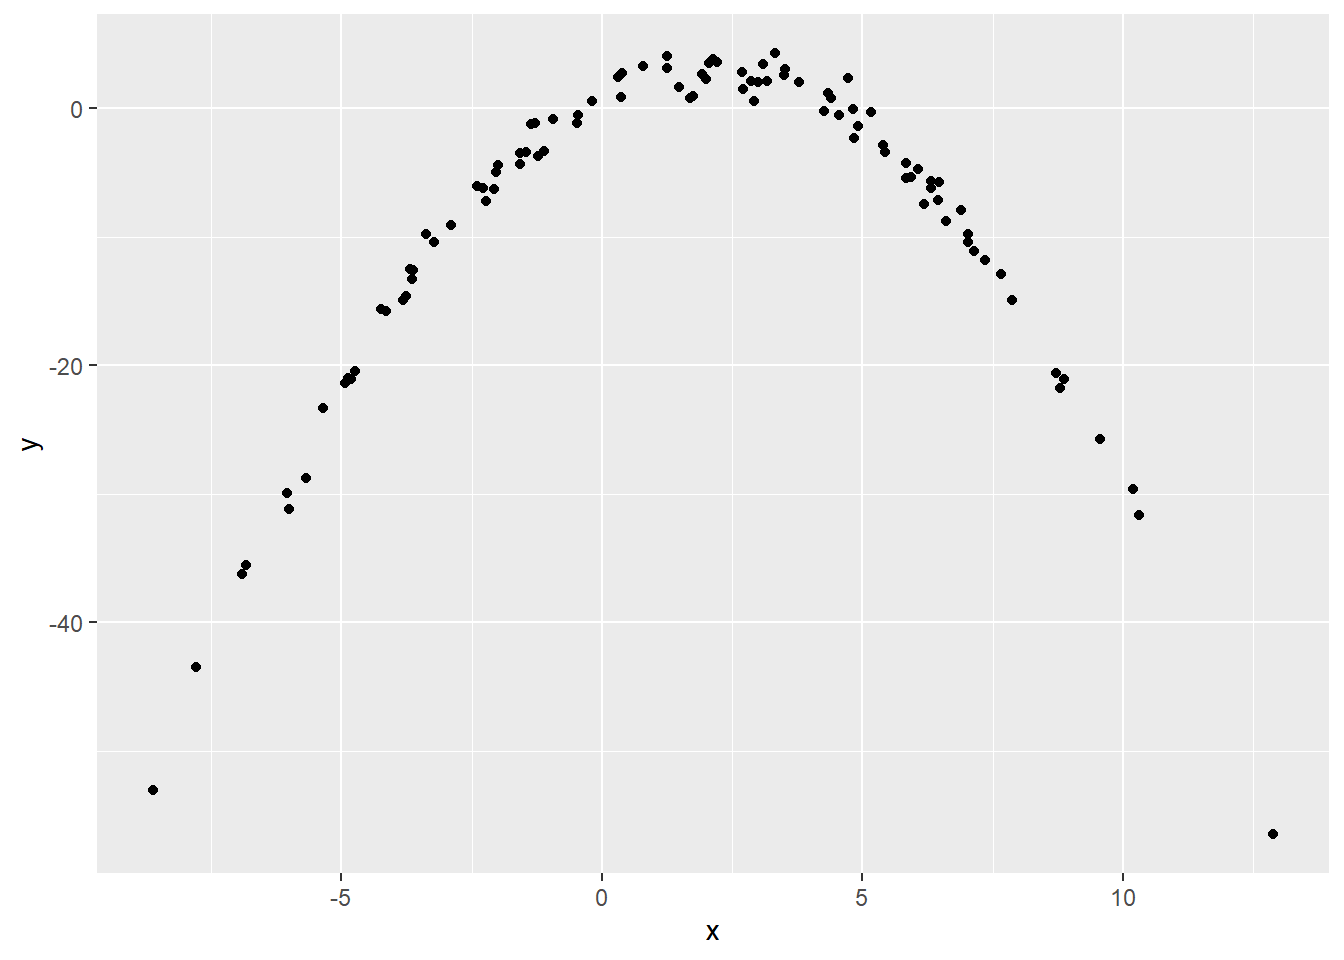
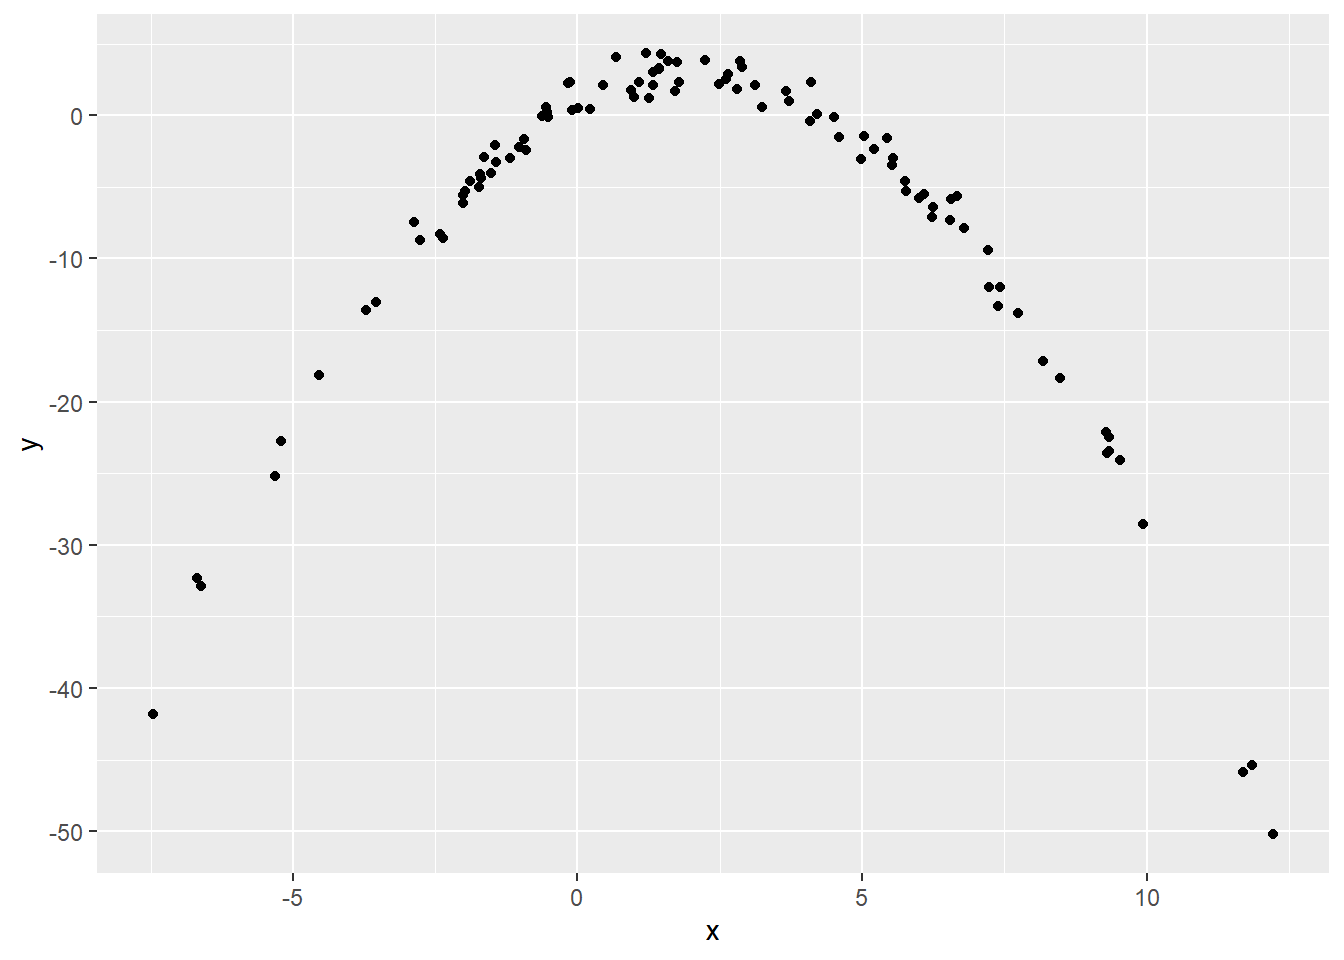
commit - try to make it published

diff --git a/plotly.html b/plotly.html
@@ -358,32 +358,19 @@ div.tocify {
 </div>
 
 
-<pre class="r"><code>library(tidyverse)</code></pre>
-<pre><code>## ── Attaching core tidyverse packages ──────────────────────── tidyverse 2.0.0 ──
-## ✔ dplyr     1.1.4     ✔ readr     2.1.5
-## ✔ forcats   1.0.0     ✔ stringr   1.5.1
-## ✔ ggplot2   3.5.1     ✔ tibble    3.2.1
-## ✔ lubridate 1.9.3     ✔ tidyr     1.3.1
-## ✔ purrr     1.0.2     
-## ── Conflicts ────────────────────────────────────────── tidyverse_conflicts() ──
-## ✖ dplyr::filter() masks stats::filter()
-## ✖ dplyr::lag()    masks stats::lag()
-## ℹ Use the conflicted package (&lt;http://conflicted.r-lib.org/&gt;) to force all conflicts to become errors</code></pre>
-<pre class="r"><code>library(p8105.datasets)
+<pre class="r"><code>library(tidyverse)
+library(p8105.datasets)
 
 library(plotly)</code></pre>
 <pre><code>## 
-## Attaching package: &#39;plotly&#39;
+## Attaching package: &#39;plotly&#39;</code></pre>
+<pre><code>## The following object is masked from &#39;package:ggplot2&#39;:
 ## 
-## The following object is masked from &#39;package:ggplot2&#39;:
+##     last_plot</code></pre>
+<pre><code>## The following object is masked from &#39;package:stats&#39;:
 ## 
-##     last_plot
-## 
-## The following object is masked from &#39;package:stats&#39;:
-## 
-##     filter
-## 
-## The following object is masked from &#39;package:graphics&#39;:
+##     filter</code></pre>
+<pre><code>## The following object is masked from &#39;package:graphics&#39;:
 ## 
 ##     layout</code></pre>
 

diff --git a/plot.html b/plot.html
@@ -330,6 +330,9 @@ div.tocify {
   <a href="plot.html">Plots</a>
 </li>
 <li>
+  <a href="plotly.html">Plotly</a>
+</li>
+<li>
   <a href="mailto:&lt;you@youremail.com&gt;">
     <span class="fa fa-envelope fa-lg"></span>
      
@@ -357,24 +360,15 @@ div.tocify {
 
 <div id="here-are-some-plots" class="section level1">
 <h1>Here are some plots</h1>
-<p>You can make plots in the same way as always</p>
-<pre class="r"><code>library(tidyverse)</code></pre>
-<pre><code>## ── Attaching core tidyverse packages ─────────────── tidyverse 2.0.0 ──
-## ✔ dplyr     1.1.4     ✔ readr     2.1.5
-## ✔ forcats   1.0.0     ✔ stringr   1.5.1
-## ✔ ggplot2   3.5.1     ✔ tibble    3.2.1
-## ✔ lubridate 1.9.3     ✔ tidyr     1.3.1
-## ✔ purrr     1.0.2     
-## ── Conflicts ───────────────────────────────── tidyverse_conflicts() ──
-## ✖ dplyr::filter() masks stats::filter()
-## ✖ dplyr::lag()    masks stats::lag()
-## ℹ Use the conflicted package (&lt;http://conflicted.r-lib.org/&gt;) to force all conflicts to become errors</code></pre>
-<pre class="r"><code>df = tibble(
+<p>You can make plots in the same way as always.</p>
+<pre class="r"><code>library(tidyverse)
+
+df = tibble(
   x = rnorm(100, 2, 5),
   y = 1 + 2 * x - .5 * x ^ 2 + rnorm(100)
 )
 
-df %&gt;% 
+df |&gt; 
   ggplot(aes(x = x, y = y)) + 
   geom_point()</code></pre>
 <p><img src="plot_files/figure-html/unnamed-chunk-1-1.png" width="672" /></p>

diff --git a/index.html b/index.html
@@ -330,6 +330,9 @@ div.tocify {
   <a href="plot.html">Plots</a>
 </li>
 <li>
+  <a href="plotly.html">Plotly</a>
+</li>
+<li>
   <a href="mailto:&lt;you@youremail.com&gt;">
     <span class="fa fa-envelope fa-lg"></span>
      
@@ -355,16 +358,17 @@ div.tocify {
 </div>
 
 
-<div id="this-is-xiaonis-awesome-website" class="section level1">
-<h1>This is Xiaoni’s awesome website</h1>
+<div id="this-is-jeffs-awesome-website" class="section level1">
+<h1>This is Jeff’s awesome website</h1>
 <p><img
 src="https://media.giphy.com/media/drXGoW1iudhKw/giphy.gif" /></p>
-<p>Website for course <strong>P8105</strong> at Columbia University in
-the City of New York</p>
-<p><a href="https://www.google.com/">Google</a> is used to do data
-science.</p>
+<p>This is an <strong>awesome website</strong> about data science and
+elmo?</p>
+<p>Sometimes I use <a href="https://www.google.com/">google</a> to do
+data science when I’m stuck.</p>
 <p>If you’d like to learn more about this website, visit <a
-href="about.html">this page</a></p>
+href="about.html">this page</a>.</p>
+<p>NOW I CAN PUT STUFF ON THE INTERNET</p>
 </div>
 
 

diff --git a/about.html b/about.html
@@ -330,6 +330,9 @@ div.tocify {
   <a href="plot.html">Plots</a>
 </li>
 <li>
+  <a href="plotly.html">Plotly</a>
+</li>
+<li>
   <a href="mailto:&lt;you@youremail.com&gt;">
     <span class="fa fa-envelope fa-lg"></span>
      
@@ -355,8 +358,15 @@ div.tocify {
 </div>
 
 
+<div id="information-about-this-website" class="section level1">
+<h1>Information about this website</h1>
+<p>This website was made as an example in <a
+href="https://p8105.com">P8105</a> for “Making Websites”. I’m making in
+RMD and will use GitHub for hosting.</p>
+<p>You can go <a href="index.html">home</a>.</p>
 <p>Visit <a href="https://ebird.org/profile/OTUzMjE2/world">my eBird
 page</a> for more information</p>
+</div>
 
 
 
